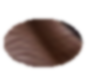
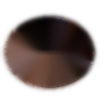
Add files via upload

diff --git a/horse-companion.css b/horse-companion.css
@@ -1,4 +1,4 @@
-/* HorseHub 1.43.0 – abgestimmter 2D Andalusier Kopf/Hals. */
+/* HorseHub 1.45.0 – abgestimmter 2D Andalusier Kopf/Hals. */
 #hh-companion-root{position:fixed;inset:0;pointer-events:none;z-index:9999;font-family:inherit}
 #hh-companion-trigger{pointer-events:auto;position:fixed;right:16px;bottom:calc(76px + env(safe-area-inset-bottom));width:130px;height:160px;border:0;background:transparent;padding:0;cursor:grab;filter:drop-shadow(0 10px 14px #0003);touch-action:none;user-select:none;-webkit-user-select:none;transition:filter .18s ease,opacity .2s ease}
 #hh-companion-trigger.manual{right:auto;bottom:auto}#hh-companion-trigger.dragging{cursor:grabbing;filter:drop-shadow(0 13px 20px #0004)}
@@ -27,23 +27,23 @@
 #hh-companion-panel{pointer-events:auto;position:fixed;right:14px;bottom:calc(212px + env(safe-area-inset-bottom));width:min(390px,calc(100vw - 28px));max-height:min(72vh,650px);overflow:auto;background:#fffdf9;border:1px solid #d9cdbd;border-radius:20px;padding:15px;box-shadow:0 14px 38px #0003;z-index:10001}.hh-muted{color:#6d665e;font-size:13px}.hh-companion-panel-title{display:flex;justify-content:space-between;align-items:center}.hh-section{margin-top:14px}.hh-row-actions{display:flex;gap:8px;flex-wrap:wrap;margin-top:10px}.hh-row-actions button{flex:1;min-width:120px}.hh-check{display:flex;gap:8px;align-items:center;padding:6px 0;font-size:13px}.hh-check input{width:auto}.hh-companion-status{margin-top:8px;padding:8px 10px;border-radius:10px;background:#e8f4e8;color:#245b2b;font-size:12px}.hh-companion-status.off{background:#f5e9e6;color:#7b3026}
 .hh-settings-inline{display:grid;grid-template-columns:100px 1fr;gap:12px;align-items:start}.hh-settings-inline-photo{width:100px;height:100px;border-radius:14px;background:#eee8dc;overflow:hidden;display:grid;place-items:center}.hh-settings-inline-photo .hh-vector-wrap{width:100%;height:100%}.hh-selection-note{font-size:12px;color:#6d665e;margin-top:6px}
 @media(max-width:480px){#hh-companion-trigger{right:9px}.hh-companion-bubble{max-width:220px}#hh-companion-panel{right:8px;width:calc(100vw - 16px);bottom:calc(190px + env(safe-area-inset-bottom))}}
-/* 1.43.0 – Kopf/Hals-Fokus: ein sauberer, leichter 2D-Kopf-Rig. */
+/* 1.45.0 – Kopf/Hals-Fokus: ein sauberer, leichter 2D-Kopf-Rig. */
 .hh-head-only{width:100%;height:100%;position:relative;display:grid;place-items:end center;overflow:visible}
 .hh-photo-neck-motion{position:relative;width:100%;height:100%;display:flex;align-items:flex-end;justify-content:center;transform-box:border-box;transform-origin:58% 82%;will-change:transform}
 .hh-photo-rig{position:relative;width:100%;height:100%;display:flex;align-items:flex-end;justify-content:center;transform-box:border-box;will-change:transform}
 .hh-photo-head-motion{position:relative;width:100%;height:auto;aspect-ratio:1185 / 1327;display:block;align-self:flex-end;transform-box:border-box;transform-origin:68% 58%;will-change:transform}
 .hh-photo-base{width:100%;height:100%;object-fit:fill;display:block;pointer-events:none;user-select:none;-webkit-user-drag:none;filter:drop-shadow(0 8px 8px rgba(0,0,0,.18))}
-.hh-photo-ear{position:absolute;inset:0;display:block;pointer-events:none;z-index:3;background-image:url('andalusier-head-neck-clean.png?v=1.43.0');background-repeat:no-repeat;background-size:100% 100%;background-position:center bottom;will-change:transform;transform-box:border-box}
+.hh-photo-ear{position:absolute;inset:0;display:block;pointer-events:none;z-index:3;background-image:url('andalusier-head-neck-clean.png?v=1.45.0');background-repeat:no-repeat;background-size:100% 100%;background-position:center bottom;will-change:transform;transform-box:border-box}
 .hh-photo-ear-l{clip-path:polygon(54% 0,70% 0,71% 16%,68% 28%,60% 25%,54% 12%);transform-origin:62% 22%}
 .hh-photo-ear-r{clip-path:polygon(78% 0,94% 0,95% 20%,92% 29%,84% 25%,79% 12%);transform-origin:86% 22%}
 .hh-photo-lid{position:absolute;display:block;pointer-events:none;z-index:5;opacity:0;transform:scaleY(.06);transform-origin:50% 50%;will-change:transform,opacity;background-repeat:no-repeat;background-size:100% 100%;background-position:center}
-.hh-photo-lid-l{background-image:url('eyelid-left-closed.png?v=1.44.0');}
-.hh-photo-lid-r{background-image:url('eyelid-right-closed.png?v=1.44.0');}
-/* 1.43.0 – Blink patches are copied from the approved master image itself.
+.hh-photo-lid-l{background-image:url('eyelid-left-closed.png?v=1.45.0');}
+.hh-photo-lid-r{background-image:url('eyelid-right-closed.png?v=1.45.0');}
+/* 1.45.0 – Blink patches are copied from the approved master image itself.
    Their boxes are aligned to the actual eye openings; the blink reveals the
    skin texture from top to bottom without translating or scaling the eye. */
 .hh-photo-lid-l{left:60.76%;top:36.85%;width:7.6%;height:6.05%;transform-origin:50% 0%;}
-.hh-photo-lid-r{left:90.3%;top:33.9%;width:4.65%;height:5.3%;transform-origin:50% 0%;}
+.hh-photo-lid-r{left:90.3%;top:33.9%;width:4.65%;height:9.0%;transform-origin:50% 0%;}
  .hh-neck-breathe{animation:hh-neck-breathe 4.9s ease-in-out infinite}
 @keyframes hh-neck-breathe{0%,100%{transform:translate3d(0,0,0) scale(1,1)}50%{transform:translate3d(0,-1.1px,0) scale(1.0035,1.005)}}
 .hh-neck-turn-left{animation:hh-neck-turn-left 2.3s cubic-bezier(.22,.75,.25,1) both}
@@ -63,11 +63,11 @@
 @keyframes hh-photo-ear-l{0%,100%{transform:rotate(0)}34%{transform:rotate(-3.2deg)}60%{transform:rotate(-.9deg)}82%{transform:rotate(-1.7deg)}}
 @keyframes hh-photo-ear-r{0%,100%{transform:rotate(0)}34%{transform:rotate(3deg)}60%{transform:rotate(.8deg)}82%{transform:rotate(1.5deg)}}
 .hh-photo-lid.hh-blink{animation:hh-photo-blink .42s cubic-bezier(.35,0,.45,1) both}
-@keyframes hh-photo-blink{0%{opacity:0;clip-path:inset(100% 0 0 0)}20%{opacity:.7;clip-path:inset(45% 0 0 0)}40%{opacity:1;clip-path:inset(0 0 0 0)}72%{opacity:1;clip-path:inset(0 0 0 0)}100%{opacity:0;clip-path:inset(100% 0 0 0)}}
+@keyframes hh-photo-blink{0%{opacity:0;clip-path:inset(100% 0 0 0)}18%{opacity:.92;clip-path:inset(58% 0 0 0)}34%{opacity:1;clip-path:inset(0 0 0 0)}78%{opacity:1;clip-path:inset(0 0 0 0)}100%{opacity:0;clip-path:inset(100% 0 0 0)}}
 
 
 .hh-photo-head-motion.hh-head-nod{animation:hh-photo-head-nod 2.5s cubic-bezier(.22,.7,.25,1) both}
 @keyframes hh-photo-head-nod{0%,100%{transform:rotate(0) translateY(0)}26%{transform:rotate(.5deg) translateY(3px)}50%{transform:rotate(-.2deg) translateY(7px)}66%{transform:rotate(.16deg) translateY(2px)}82%{transform:rotate(0) translateY(0)}}
 
-/* 1.43.0 – Die Ohren bleiben exakt Bestandteil des Originalbildes; keine versetzten Overlay-Ebenen. */
+/* 1.45.0 – Die Ohren bleiben exakt Bestandteil des Originalbildes; keine versetzten Overlay-Ebenen. */
 .hh-photo-ear{display:none !important}

diff --git a/horse-companion.js b/horse-companion.js
@@ -3,7 +3,7 @@
    Motion is split into independent body/head/ear/eye/mane/tail systems.
 */
 (()=>{'use strict';
-const VERSION='1.44.0';
+const VERSION='1.45.0';
 const KEY='hhCompanionSettings_v5';
 const OLD_KEYS=['hhCompanionSettings_v4','hhCompanionSettings_v3','hhCompanionSettings_v2'];
 try{['hhCompanionSelections_v1','hhCompanionPhotoOriginal_v1','hhCompanionPhotoCartoon_v1'].forEach(k=>localStorage.removeItem(k))}catch(_){}
@@ -23,7 +23,7 @@ function resetDrag(){settings.dragX=null;settings.dragY=null;settings.position='
 function clearTimers(){timers.forEach(clearTimeout);timers=[]}
 function later(fn,min,max){const ms=Math.round(min+Math.random()*(max-min));const id=setTimeout(()=>{timers=timers.filter(x=>x!==id);fn()},ms);timers.push(id)}
 function pulse(el,cls,duration=900){if(!el)return;el.classList.remove(cls);void el.offsetWidth;el.classList.add(cls);setTimeout(()=>el.classList.remove(cls),duration)}
-function horseSvg(){const p=profile();return `<div class="hh-photo-wrap hh-head-only" aria-label="${esc(p.name)}"><div class="hh-photo-neck-motion"><div class="hh-photo-rig"><div class="hh-photo-head-motion"><img class="hh-photo-base" src="andalusier-head-neck-clean.png?v=1.44.0" alt="A – Andalusier (Rappe), Kopf und Hals"><span class="hh-photo-lid hh-photo-lid-l" aria-hidden="true"><i></i></span><span class="hh-photo-lid hh-photo-lid-r" aria-hidden="true"><i></i></span></div></div></div></div>`}
+function horseSvg(){const p=profile();return `<div class="hh-photo-wrap hh-head-only" aria-label="${esc(p.name)}"><div class="hh-photo-neck-motion"><div class="hh-photo-rig"><div class="hh-photo-head-motion"><img class="hh-photo-base" src="andalusier-head-neck-clean.png?v=1.45.0" alt="A – Andalusier (Rappe), Kopf und Hals"><span class="hh-photo-lid hh-photo-lid-l" aria-hidden="true"><i></i></span><span class="hh-photo-lid hh-photo-lid-r" aria-hidden="true"><i></i></span></div></div></div></div>`}
 function esc(s){return String(s??'').replace(/[&<>"']/g,c=>({'&':'&amp;','<':'&lt;','>':'&gt;','"':'&quot;',"'":'&#39;'}[c]))}
 function displayClass(){return mood==='happy'?'hh-reaction-happy':mood==='curious'?'hh-reaction-curious':mood==='reminder'?'hh-reaction-reminder':mood==='calm'?'hh-reaction-calm':''}
 function greeting(){const messages={friendly:['Hallo! Schön, dass du da bist.','Wie schön, dich zu sehen!','Ich bin bei dir – was steht heute an?'],curious:['Was schauen wir uns als Nächstes an?','Ich bin neugierig auf deinen Stalltag!'],happy:['Juhu, das hast du toll gemacht!','Super erledigt – weiter so!'],reminder:['Psst … schau doch kurz auf deine heutigen Aufgaben.','Kleiner Hinweis: Vielleicht steht bald etwas im Kalender an.']};const a=messages[mood]||messages.friendly;return {title:'HorseHub',text:a[Math.floor(Math.random()*a.length)]}}

diff --git a/index.html b/index.html
@@ -48,7 +48,7 @@ footer{display:none}.crop-wrap{position:relative;width:100%;max-width:520px;marg
 .auth-loading{min-height:100vh;background:#111516;color:#fff;display:flex;align-items:center;justify-content:center;font-size:1.05rem}
 .account-status{display:flex;justify-content:space-between;gap:12px;align-items:center;flex-wrap:wrap}
 </style>
-<link rel="stylesheet" href="./horse-companion.css?v=1.44.0">
+<link rel="stylesheet" href="./horse-companion.css?v=1.45.0">
 </head>
 <body>
 <div class="auth-loading" id="authLoading">HorseHub wird geladen …</div>
@@ -184,7 +184,7 @@ footer{display:none}.crop-wrap{position:relative;width:100%;max-width:520px;marg
 <div class="card" style="text-align:center;margin-top:14px;padding:18px 14px">
 <div style="font-size:18px;font-weight:800">HorseHub</div>
 <div class="muted" style="margin-top:5px">Von Pferdebesitzern für Pferdebesitzer❤</div>
-<div class="muted" style="margin-top:10px;font-size:13px">App-Version 1.44.0 · abgestimmter 2D-Andalusier Kopf-Rig</div>
+<div class="muted" style="margin-top:10px;font-size:13px">App-Version 1.45.0 · abgestimmter 2D-Andalusier Kopf-Rig</div>
 </div>
 </section>
 <section class="hidden" id="notes"><div class="card"><h2>🎙 Spracheingabe</h2><p class="muted">Beim ersten Start fragt dein Browser nach der Mikrofonfreigabe. Die Spracheingabe kann später auch direkt in Gesundheit, Fütterung und Training genutzt werden.</p><select id="horse"></select><br/><br/><div class="voice-row"><textarea id="note" placeholder="Zum Beispiel: Heute 45 Minuten trainiert …"></textarea><button class="mic" id="mic" onclick="toggleMicFor('note','micStatus','mic')">🎙</button></div><div class="row"><span class="muted" id="micStatus">Mikrofon bereit</span><button class="secondary" onclick="clearNote()">Löschen</button><button onclick="saveNote()">Stallnotiz speichern</button></div></div><div id="savedNotes"></div></section>
@@ -1334,7 +1334,7 @@ initTheme();migrateContactCategories();renderHorses();renderNotes();renderPlans(
 window.addEventListener('DOMContentLoaded',()=>{migrateNotes();ensureTeamMembers();renderTeam();renderPlans();$('planType')?.addEventListener('change',updatePlanLivePreview);$('planHorse')?.addEventListener('change',updatePlanLivePreview);$('planDescription')?.addEventListener('input',updatePlanLivePreview);});
 </script>
 </div>
-<script src="./companion-db.js?v=1.44.0"></script>
-<script src="./horse-companion.js?v=1.44.0"></script>
+<script src="./companion-db.js?v=1.45.0"></script>
+<script src="./horse-companion.js?v=1.45.0"></script>
 </body>
 </html>

diff --git a/sw.js b/sw.js
@@ -1,5 +1,5 @@
-const CACHE='horsehub-1.44.0';
-const ASSETS=['./','./index.html','./manifest.webmanifest','./icon-192.png','./icon-512.png','./horse-companion.css?v=1.44.0','./companion-db.js?v=1.44.0','./horse-companion.js?v=1.44.0','./andalusier-head-neck-clean.png?v=1.44.0'];
+const CACHE='horsehub-1.45.0';
+const ASSETS=['./','./index.html','./manifest.webmanifest','./icon-192.png','./icon-512.png','./horse-companion.css?v=1.45.0','./companion-db.js?v=1.45.0','./horse-companion.js?v=1.45.0','./andalusier-head-neck-clean.png?v=1.45.0'];
 self.addEventListener('install',e=>e.waitUntil(caches.open(CACHE).then(c=>c.addAll(ASSETS)).then(()=>self.skipWaiting())));
 self.addEventListener('activate',e=>e.waitUntil(caches.keys().then(keys=>Promise.all(keys.filter(k=>k!==CACHE).map(k=>caches.delete(k)))).then(()=>self.clients.claim())));
 self.addEventListener('fetch',e=>{if(e.request.method!=='GET')return;e.respondWith(caches.match(e.request).then(cached=>cached||fetch(e.request).then(r=>{const copy=r.clone();caches.open(CACHE).then(c=>c.put(e.request,copy));return r}).catch(()=>caches.match('./index.html'))))});
